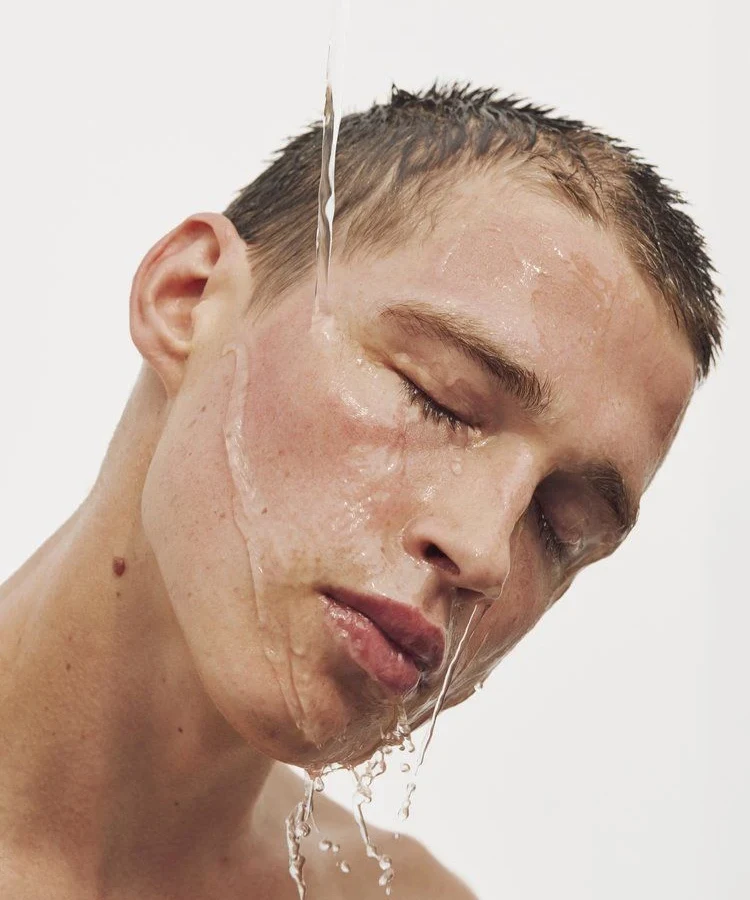
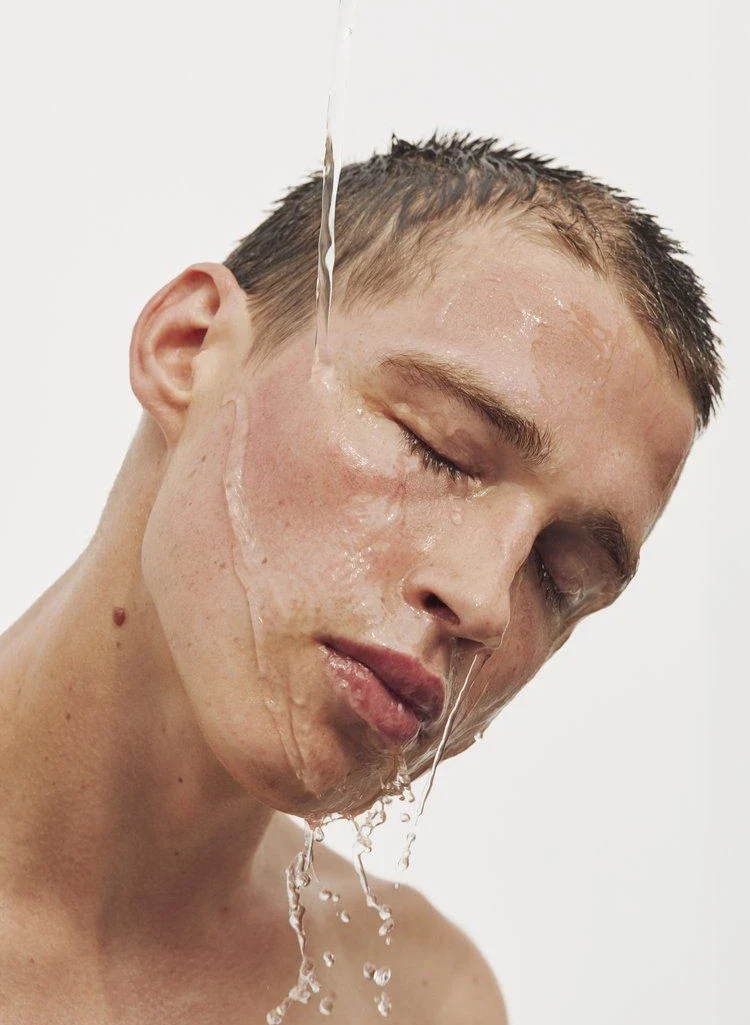
Ajusta foto del hero, texto de la franja y botón del manifiesto
- Foto del hero menos recortada, con su proporción natural y alineada:
  arriba y abajo con los textos del bloque, a la derecha con el margen
  de la página.
- Párrafo de «Lo que no hacemos» más pequeño (16 px) y botón
  «Lee nuestro manifiesto» (enlace a # hasta que exista la página).

Claude-Session: https://claude.ai/code/session_01Ndjed9GayXWVhbBvzNfkuo

diff --git a/estilos.css b/estilos.css
@@ -188,15 +188,18 @@ img { max-width: 100%; }
 
 /* Bloque de color sólido con el texto.
    space-between reparte: fila de arriba, frase en medio, fila de abajo */
-.hero-banda { background: var(--hero-fondo); }
+.hero-banda {
+  background: var(--hero-fondo);
+  --aire: 28px;                          /* margen interior del bloque, arriba y abajo */
+}
 .hero-texto {
   color: var(--hero-tinta);
   display: flex;
   flex-direction: column;
   justify-content: space-between;
   gap: 48px;
-  padding-top: 28px;
-  padding-bottom: 28px;
+  padding-top: var(--aire);
+  padding-bottom: var(--aire);
   padding-right: var(--margen);
   /* En pantallas muy anchas, alinea el texto con el resto de la página */
   padding-left: max(var(--margen), calc((100vw - var(--ancho-max)) / 2 + var(--margen)));
@@ -208,15 +211,19 @@ img { max-width: 100%; }
 .hero-imagen {
   margin: 0;
   position: relative;
-  --flota: clamp(20px, 3.5vw, 48px);     /* margen de color alrededor de la foto */
+  --flota: var(--aire);                  /* mismo margen que el texto: bordes alineados */
 }
 .hero-imagen img {
   position: absolute;
   top: var(--flota);
-  left: var(--flota);
-  /* Ancho y alto = hueco menos el margen de los dos lados: la foto flota */
-  width: calc(100% - 2 * var(--flota));
+  /* A la derecha, el mismo margen que el resto de la página (como el texto a la izquierda) */
+  right: max(var(--margen), calc((100vw - var(--ancho-max)) / 2 + var(--margen)));
+  /* Alto = hueco menos el margen de arriba y abajo; el ancho sale solo,
+     según la proporción de la foto, así no se recorta.
+     Si no cabe a lo ancho, se limita y entonces sí recorta un poco */
   height: calc(100% - 2 * var(--flota));
+  width: auto;
+  max-width: calc(100% - var(--flota));
   object-fit: cover;                     /* recorta en vez de estirar */
   object-position: center 40%;           /* qué parte de la foto se prioriza al recortar */
   display: block;
@@ -229,6 +236,7 @@ img { max-width: 100%; }
   flex-wrap: wrap;
   gap: 4px 24px;
   font-size: 13px;
+  line-height: 1;                        /* sin aire extra: alinea con el borde de la foto */
 }
 .hero-margen > * { margin: 0; }
 
@@ -239,7 +247,13 @@ img { max-width: 100%; }
   .hero-imagen { aspect-ratio: 5 / 6; }
   /* Mismo margen que el texto; arriba no hace falta, ya lo da el bloque de texto */
   .hero-imagen { --flota: var(--margen); }
-  .hero-imagen img { top: 0; height: calc(100% - var(--flota)); }
+  .hero-imagen img {
+    top: 0;
+    left: var(--flota);
+    width: calc(100% - 2 * var(--flota));
+    max-width: none;
+    height: calc(100% - var(--flota));
+  }
 }
 
 /* El título de la página va pequeño, en la fila de arriba del bloque */
@@ -320,9 +334,9 @@ img { max-width: 100%; }
   margin: 0 0 28px;
 }
 .franja p {
-  max-width: 60ch;
-  margin: 0 auto;                        /* auto a los lados = centrado */
-  font-size: clamp(18px, 1.6vw, 21px);
+  max-width: 56ch;
+  margin: 0 auto 36px;                   /* auto a los lados = centrado */
+  font-size: 16px;
 }
 /* El foco del teclado, en claro para que se vea sobre el marrón */
 .franja :focus-visible { outline-color: var(--franja-tinta); }

diff --git a/higiene-facial.html b/higiene-facial.html
@@ -69,7 +69,7 @@
         </div>
         <div class="hero-imagen">
           <!-- alt: describe la foto para quien no la ve (lectores de pantalla, Google) -->
-          <img src="img/higiene-facial.webp" alt="Chorro de agua cayendo sobre una cara con los ojos cerrados" width="750" height="900">
+          <img src="img/higiene-facial.webp" alt="Chorro de agua cayendo sobre una cara con los ojos cerrados" width="750" height="1025">
         </div>
       </div>
 
@@ -121,6 +121,8 @@
       <div class="contenedor">
         <h2 id="titulo-no">Lo que no hacemos</h2>
         <p>No acumulamos pasos que comprometan la integridad de tu piel, como el vapor, la microdermabrasión, las toallas muy calientes o las extracciones forzadas. No usamos aparatos ni productos sin una función clara y no te prometemos otra cara en una hora. Una limpieza bien hecha se nota al momento, pero se sostiene con una rutina personalizada.</p>
+        <!-- Enlace a # hasta que exista la página del manifiesto -->
+        <a class="boton" href="#">Lee nuestro manifiesto</a>
       </div>
     </section>
 
